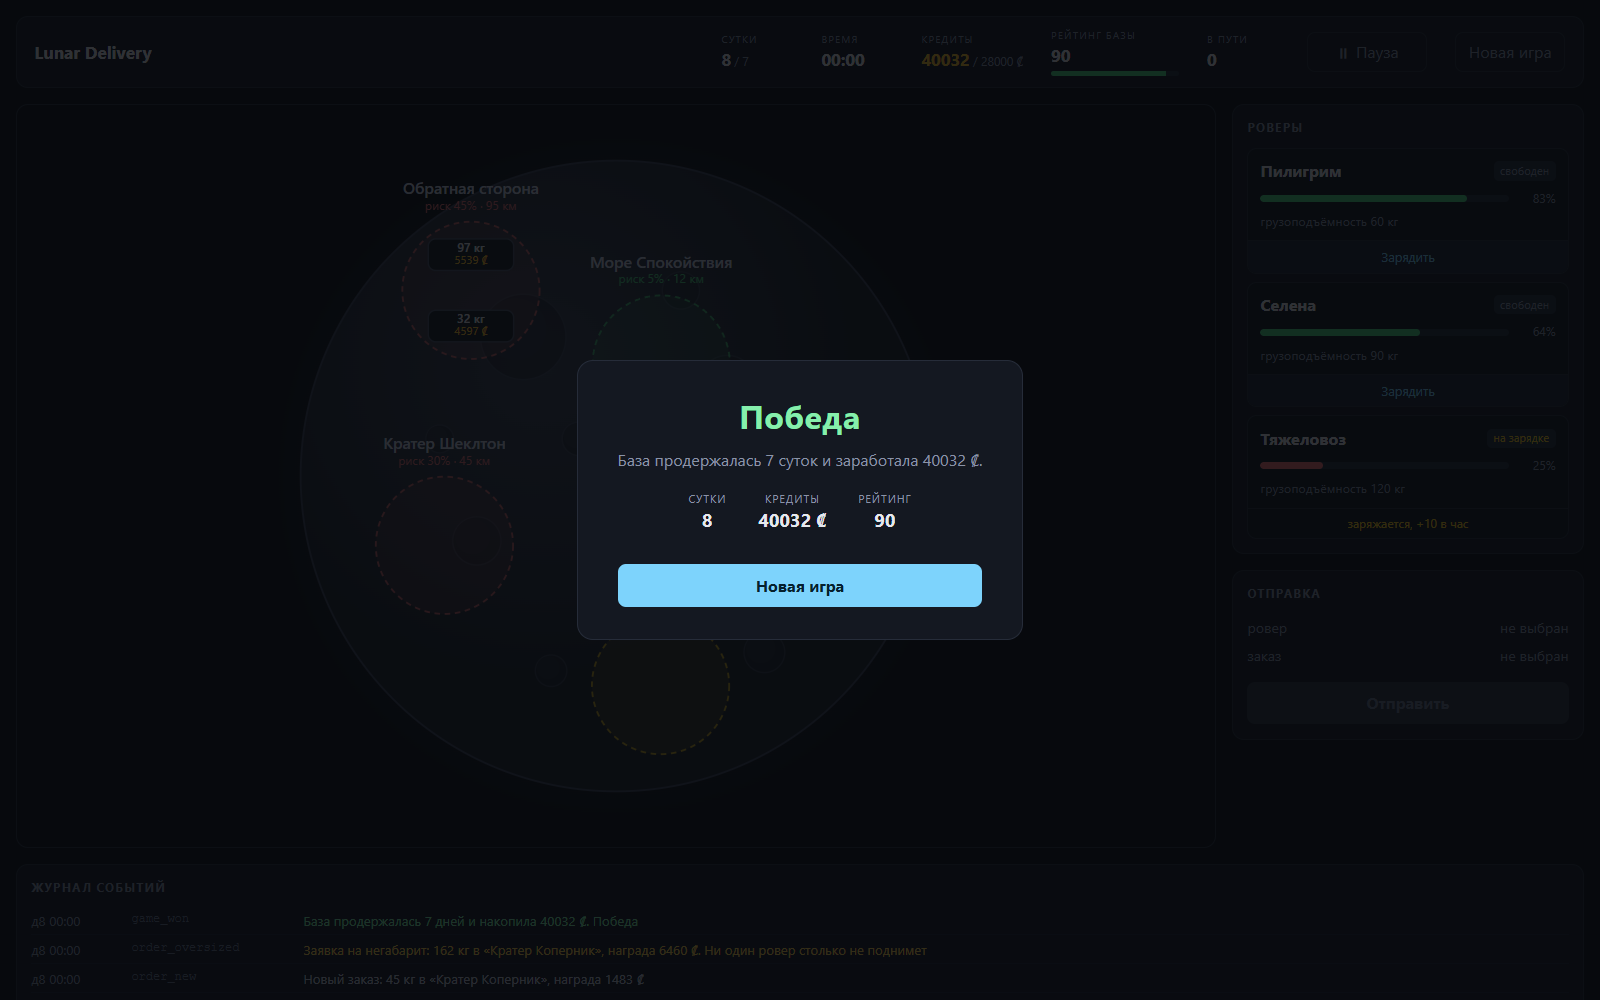
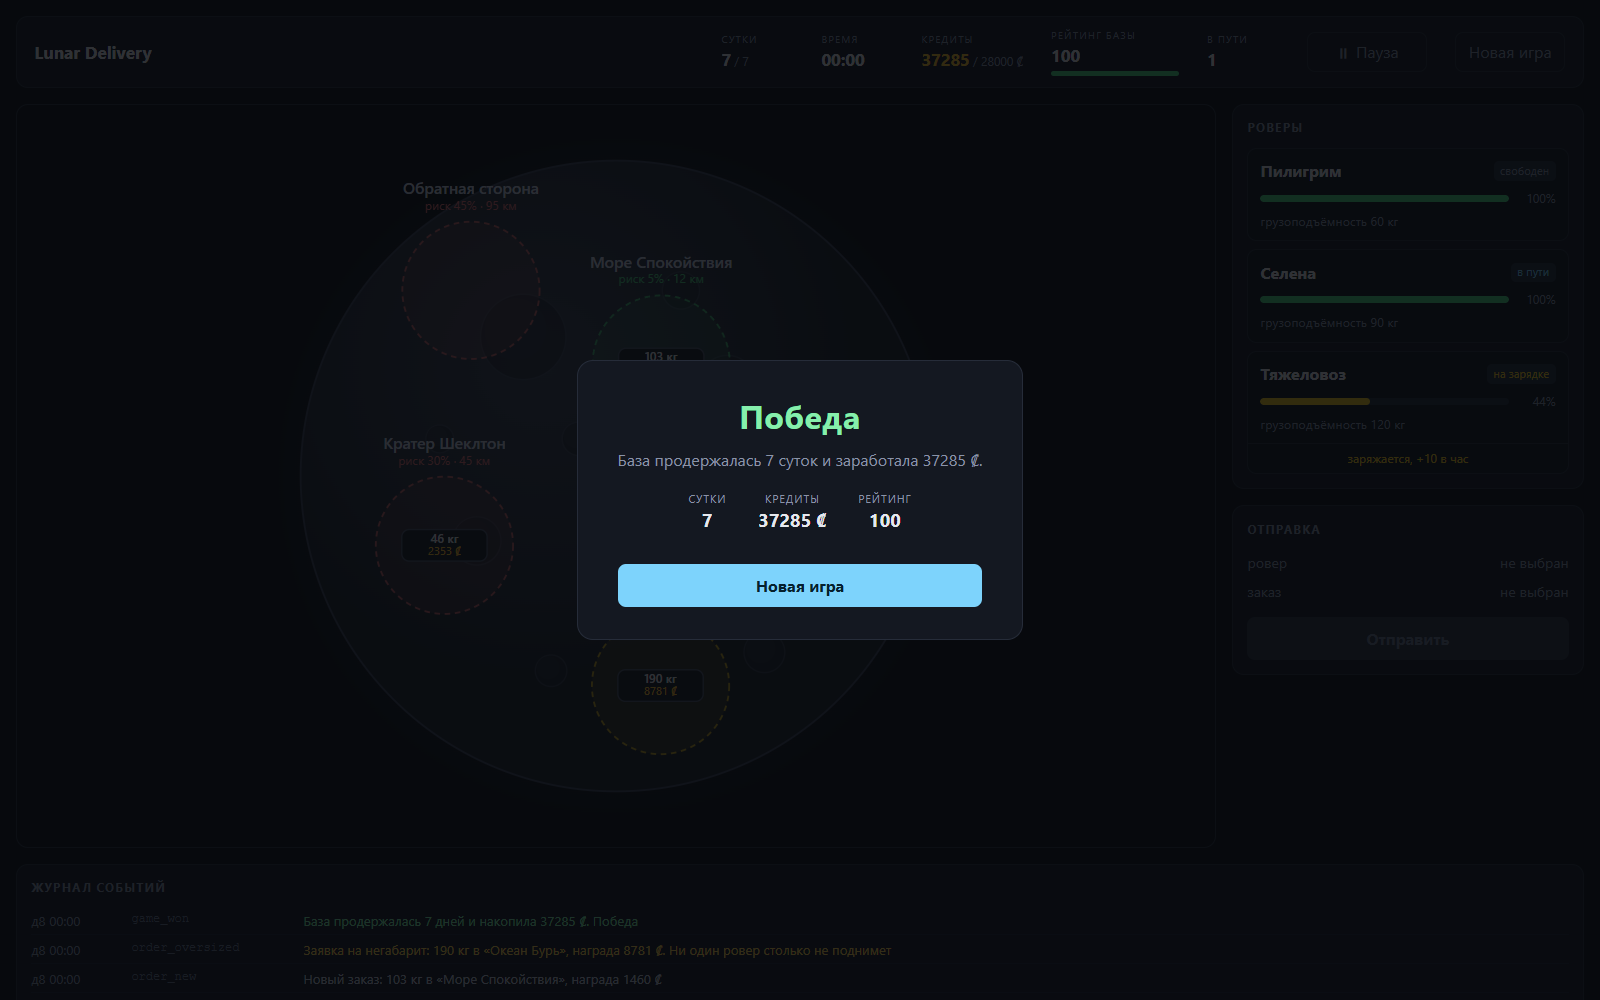
На экране результата — прожитые сутки, а не текущие
Победа наступает ровно в 00:00 восьмых суток, и шапка показывала «8 / 7»,
хотя прожито семь. Пока партия идёт, счётчик прежний; после финала —
сколько суток база продержалась. То же число в плашке результата.

Скриншот победы переснят. Скрипт скриншотов научился снимать отдельные
кадры: node scripts/screenshots.mjs --only result.

Claude-Session: https://claude.ai/code/session_019PF84jqjkiDmmGteHSWMXB

diff --git a/client/src/TopBar.jsx b/client/src/TopBar.jsx
@@ -1,9 +1,9 @@
-import { batteryColor } from './layout.js';
+import { batteryColor, daysLived } from './layout.js';
 
 const pad = (n) => String(n).padStart(2, '0');
 
 export default function TopBar({ gameState, rules, inTransit, onNewGame, onTogglePause }) {
-  const { day, hour, credits, rating, paused } = gameState;
+  const { hour, credits, rating, paused } = gameState;
 
   return (
     <header className={`topbar${paused ? ' paused' : ''}`}>
@@ -14,7 +14,7 @@ export default function TopBar({ gameState, rules, inTransit, onNewGame, onToggl
 
       <div className="stat">
         <span className="stat-label">сутки</span>
-        <span className="stat-value">{day}<span className="stat-sub"> / {rules.win_days}</span></span>
+        <span className="stat-value">{daysLived(gameState)}<span className="stat-sub"> / {rules.win_days}</span></span>
       </div>
 
       <div className="stat">

diff --git a/client/src/App.jsx b/client/src/App.jsx
@@ -3,6 +3,7 @@ import MoonMap from './MoonMap.jsx';
 import RoverPanel from './RoverPanel.jsx';
 import TopBar from './TopBar.jsx';
 import EventLog from './EventLog.jsx';
+import { daysLived } from './layout.js';
 
 const POLL_MS = 2000;
 
@@ -168,7 +169,7 @@ export default function App() {
                 : 'Рейтинг базы упал до нуля — контракт расторгнут.'}
             </p>
             <div className="result-stats">
-              <div><span>сутки</span><strong>{game.day}</strong></div>
+              <div><span>сутки</span><strong>{daysLived(game)}</strong></div>
               <div><span>кредиты</span><strong>{game.credits} ₡</strong></div>
               <div><span>рейтинг</span><strong>{game.rating}</strong></div>
             </div>

diff --git a/client/src/layout.js b/client/src/layout.js
@@ -53,3 +53,11 @@ export const CRATERS = [
   { cx: 560, cy: 590, r: 22 }, { cx: 210, cy: 360, r: 15 }, { cx: 470, cy: 200, r: 20 },
   { cx: 640, cy: 380, r: 14 }, { cx: 330, cy: 610, r: 17 }, { cx: 500, cy: 420, r: 12 },
 ];
+
+/** Сутки для показа: пока партия идёт — текущие, после финала — прожитые.
+ *  Победа наступает ровно в 00:00 восьмых суток, и «8 / 7» в шапке читалось бы
+ *  как ошибка счётчика, хотя прожито ровно семь. */
+export function daysLived({ day, hour, status }) {
+  if (status === 'running') return day;
+  return hour === 0 ? day - 1 : day;
+}

diff --git a/README.md b/README.md
@@ -172,7 +172,7 @@ time = distance / (10 × speed_factor) × (1 + 0.5 × weight_kg / capacity_kg)
 
 Кредиты не тратятся: это счёт цели, а не ресурс.
 
-![Экран победы: 7 суток, 40 032 кредита, рейтинг 90](docs/04-result.png)
+![Экран победы: 7 суток, 37 285 кредитов, рейтинг 100](docs/04-result.png)
 
 ---
 
